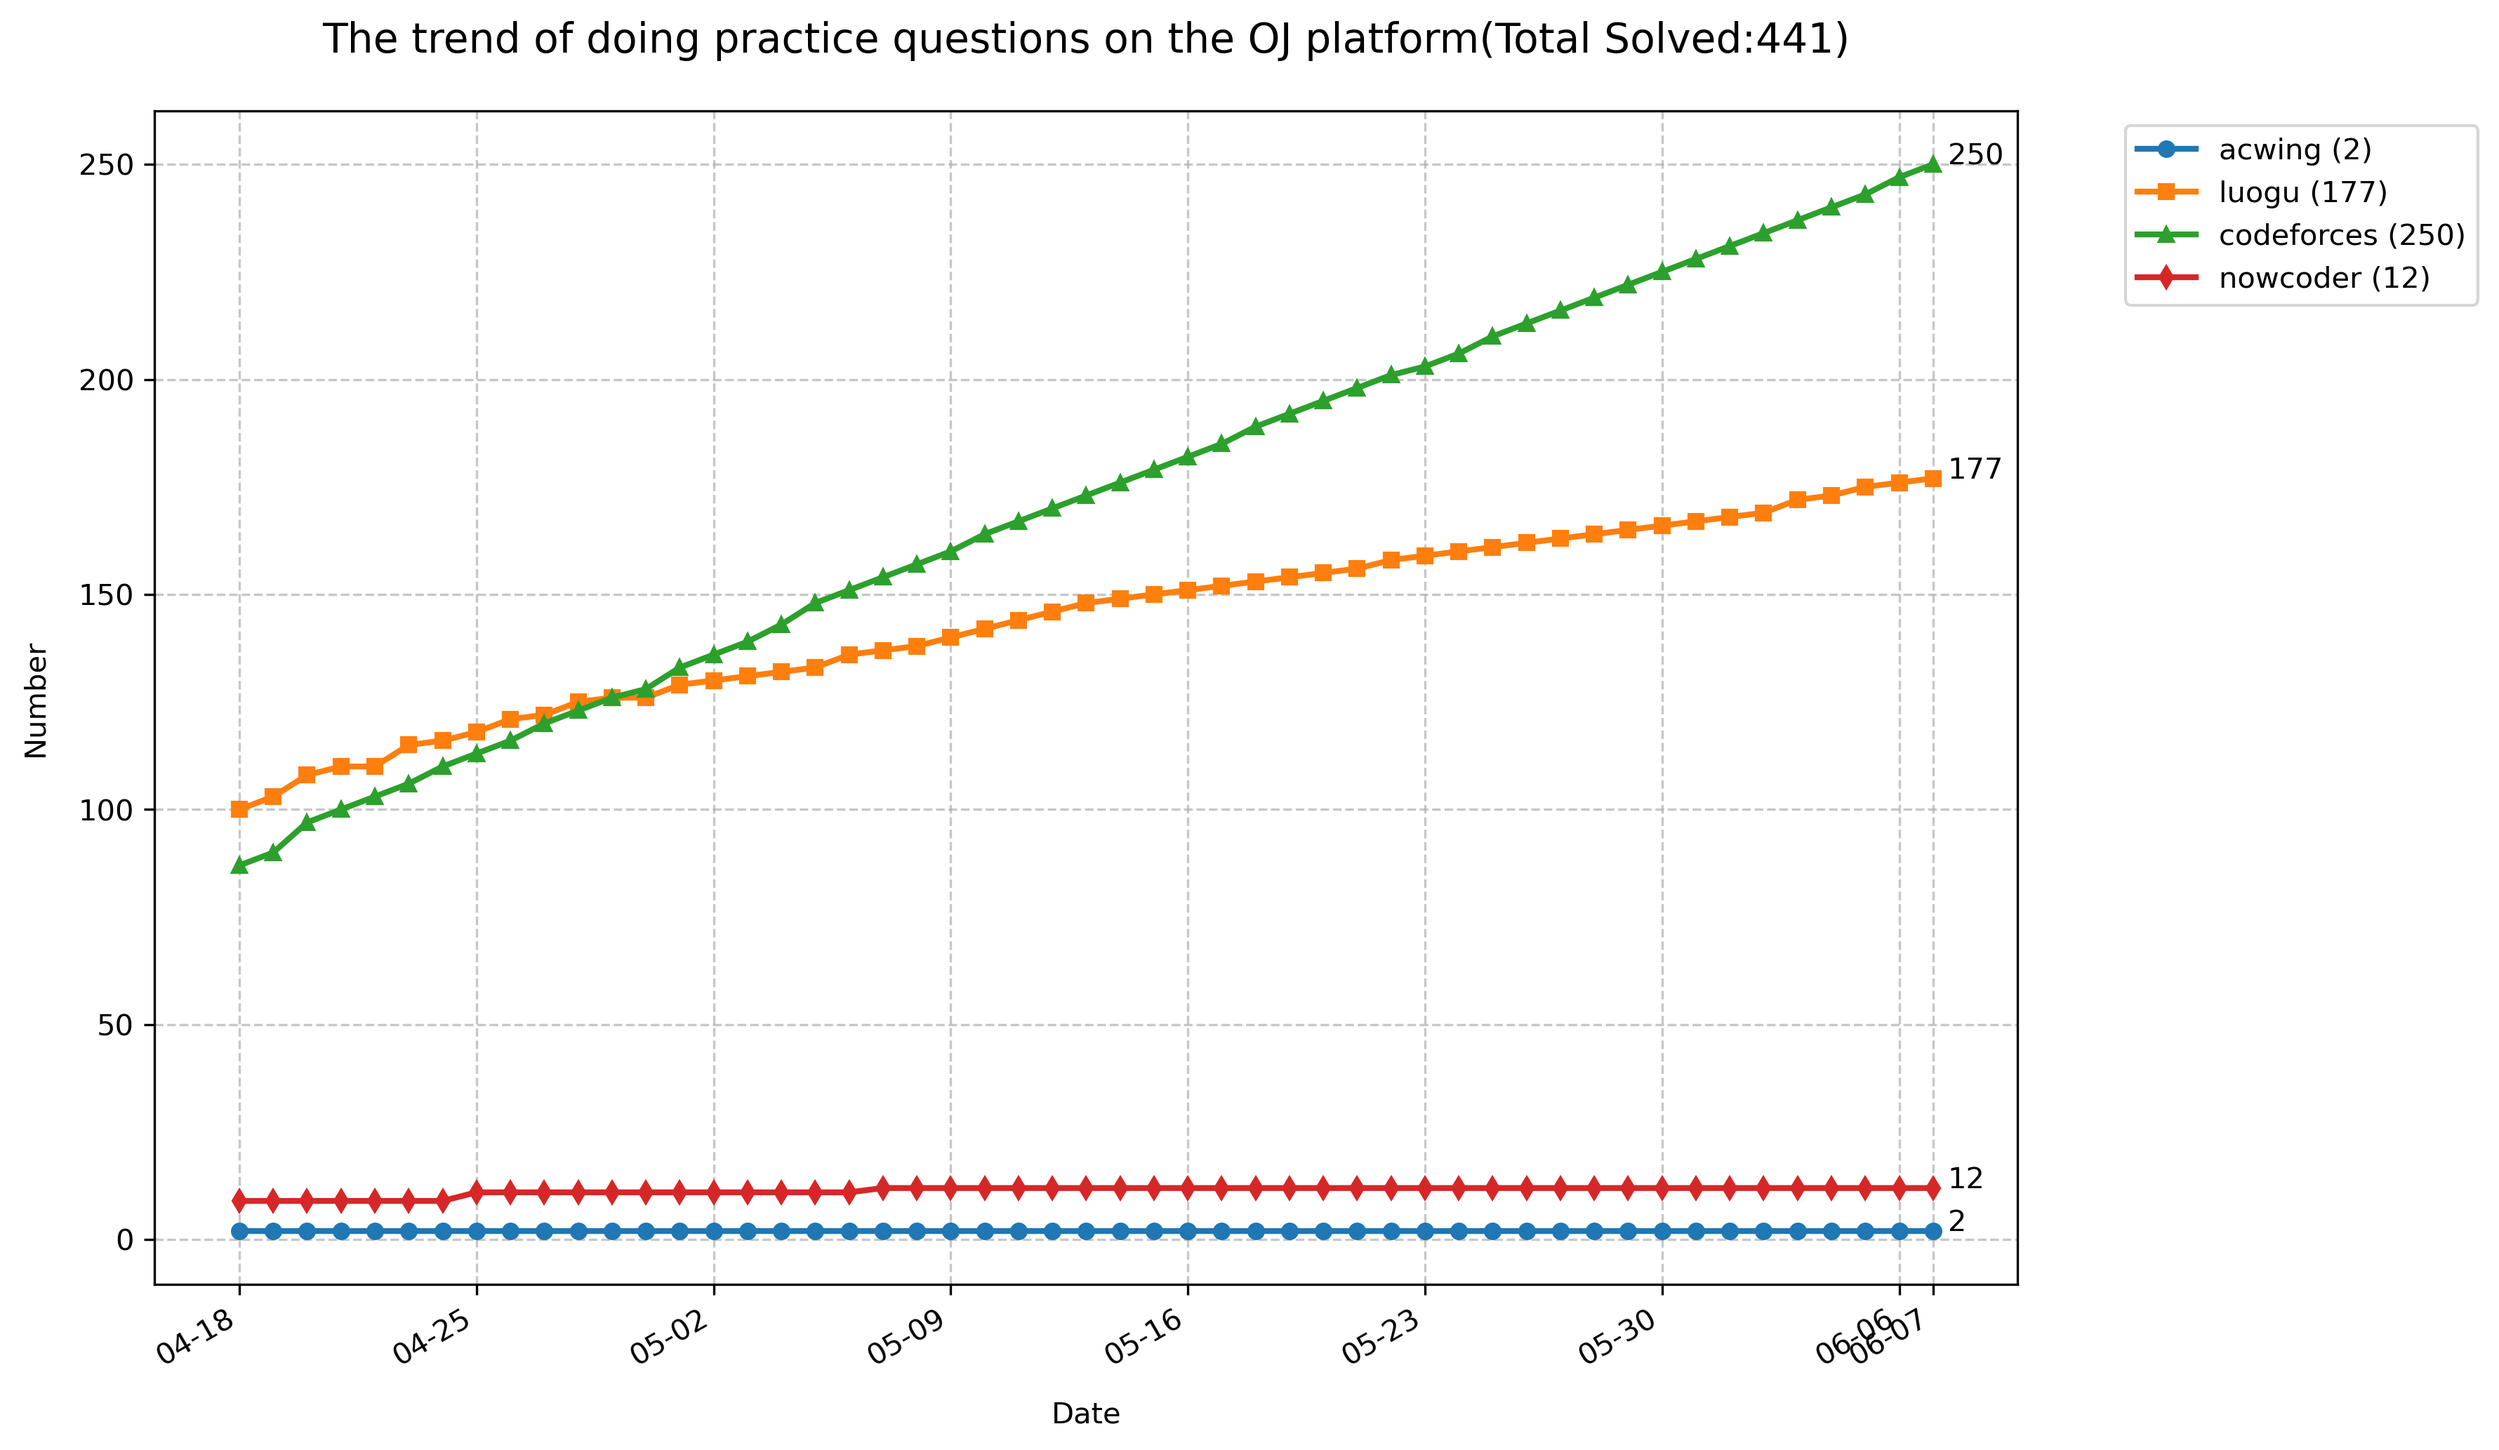
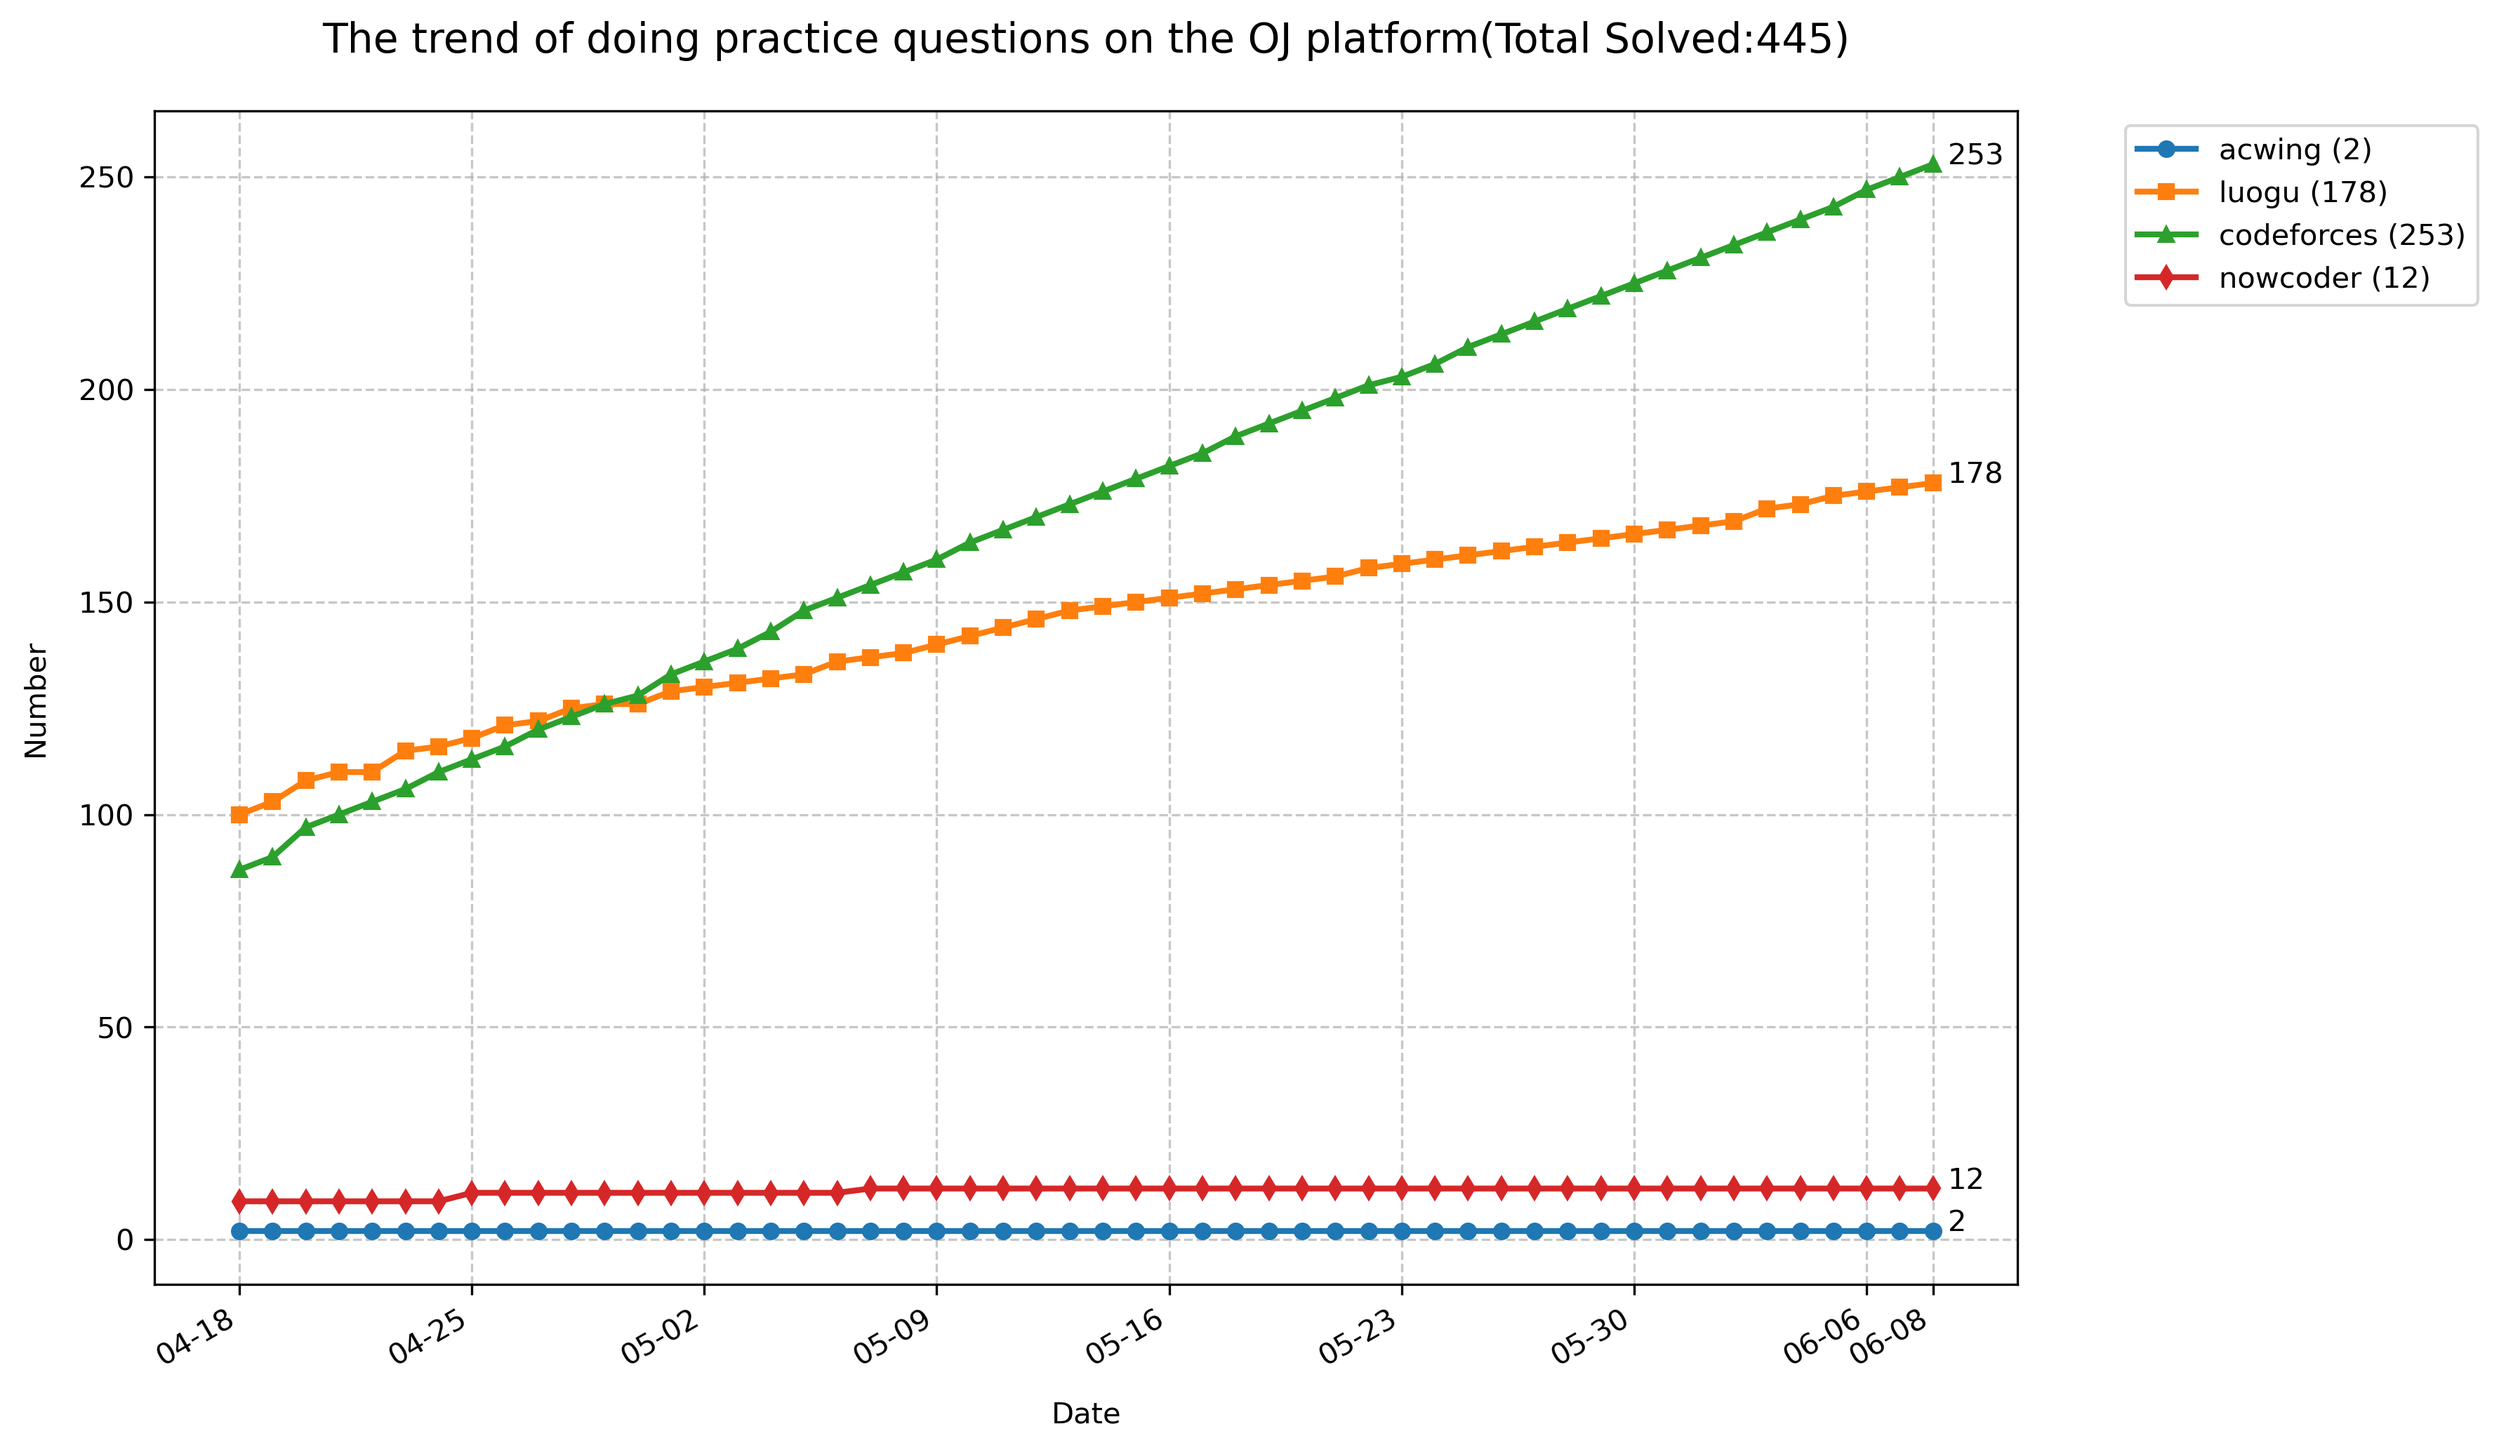
update

diff --git a/codeforces/327A/main.cpp b/codeforces/327A/main.cpp
@@ -1,0 +1,83 @@
+#include <bits/stdc++.h>
+using namespace std;
+
+#define ALL(x) (x).begin(), (x).end()
+#define MAXV(a, l, r) *std::max_element((a).begin() + (l), (a).begin() + (r))
+#define MINV(a, l, r) *std::min_element((a).begin() + (l), (a).begin() + (r))
+
+using ll = long long int;
+using ull = unsigned long long int;
+using PII = pair<int, int>;
+
+#define DEBUG
+#ifdef DEBUG
+template <typename Container>
+void PrintCon(const Container &cont)
+{
+    std::cout << "{ ";
+    if (!cont.empty())
+    {
+        auto it = cont.begin();
+        std::cout << "\033[33m" << *it++ << "\033[0m";
+        for (; it != cont.end(); ++it)
+            std::cout << " | " << "\033[33m" << *it << "\033[0m";
+    }
+    std::cout << " }" << std::endl;
+}
+
+template <typename... Args>
+void LOG(Args &&...values)
+{
+    ((std::cout << "\033[33m" << std::forward<Args>(values) << "\033[0m" << " "), ...);
+    std::cout << std::endl;
+}
+
+#else
+
+template <typename... Args>
+void LOG(Args &...args);
+template <typename Container>
+void PrintCon(const Container &cont);
+
+#endif
+
+int main()
+{
+    ios::sync_with_stdio(false);
+    cin.tie(nullptr);
+    int n;
+    cin >> n;
+    vector<int> a(n);
+    int cnt1 = 0;
+    for (int i = 0; i < n; i++)
+    {
+        cin >> a[i];
+        cnt1 += a[i];
+    }
+    int mx = -1;
+
+    for (int i = 0; i < n ; i++)
+    {
+        for (int j = i ; j < n; j++)
+        {
+
+            int cnt = cnt1;
+            int l = i;
+            while (l <= j)
+            {
+                if (a[l] == 0)
+                {
+                    cnt++;
+                }
+                else
+                {
+                    cnt--;
+                }
+                l++;
+            }
+            mx = max(mx, cnt);
+        }
+    }
+    cout << mx << endl;
+    return 0;
+}

diff --git a/codeforces/433B/main.cpp b/codeforces/433B/main.cpp
@@ -1,0 +1,82 @@
+#include <bits/stdc++.h>
+using namespace std;
+
+#define ALL(x) (x).begin(), (x).end()
+#define MAXV(a, l, r) *std::max_element((a).begin() + (l), (a).begin() + (r))
+#define MINV(a, l, r) *std::min_element((a).begin() + (l), (a).begin() + (r))
+
+using ll = long long int;
+using ull = unsigned long long int;
+using PII = pair<int, int>;
+
+#define DEBUG
+#ifdef DEBUG
+template <typename Container>
+void PrintCon(const Container &cont)
+{
+    std::cout << "{ ";
+    if (!cont.empty())
+    {
+        auto it = cont.begin();
+        std::cout << "\033[33m" << *it++ << "\033[0m";
+        for (; it != cont.end(); ++it)
+            std::cout << " | " << "\033[33m" << *it << "\033[0m";
+    }
+    std::cout << " }" << std::endl;
+}
+
+template <typename... Args>
+void LOG(Args &&...values)
+{
+    ((std::cout << "\033[33m" << std::forward<Args>(values) << "\033[0m" << " "), ...);
+    std::cout << std::endl;
+}
+
+#else
+
+template <typename... Args>
+void LOG(Args &...args);
+template <typename Container>
+void PrintCon(const Container &cont);
+
+#endif
+
+int main()
+{
+    ios::sync_with_stdio(false);
+    cin.tie(nullptr);
+    int n;
+    cin >> n;
+    vector<int> a(n + 1, 0);
+    vector<ll> s(n + 1, 0);
+    vector<ll> s2(n + 1, 0);
+    for (int i = 1; i <= n; i++)
+    {
+        cin >> a[i];
+        s[i] = s[i - 1] + a[i];
+    }
+    auto sort_a = a;
+    sort(ALL(sort_a));
+    for (int i = 1; i <= n; i++)
+    {
+        s2[i] = s2[i - 1] + sort_a[i];
+    }
+    int q;
+    cin >> q;
+    while (q--)
+    {
+        int op, l, r;
+        cin >> op >> l >> r;
+        if (op == 1)
+        {
+            cout << s[r] - s[l - 1];
+        }
+        else
+        {
+            cout << s2[r] - s2[l - 1];
+        }
+        cout << endl;
+    }
+
+    return 0;
+}

diff --git a/codeforces/1354C1/main.cpp b/codeforces/1354C1/main.cpp
@@ -1,0 +1,62 @@
+#include <bits/stdc++.h>
+using namespace std;
+
+#define ALL(x) (x).begin(), (x).end()
+#define MAXV(a, l, r) *std::max_element((a).begin() + (l), (a).begin() + (r))
+#define MINV(a, l, r) *std::min_element((a).begin() + (l), (a).begin() + (r))
+
+using ll = long long int;
+using ull = unsigned long long int;
+using PII = pair<int, int>;
+
+#define DEBUG
+
+#ifdef DEBUG
+template <typename Container>
+void PrintCon(const Container &cont)
+{
+    std::cout << "{ ";
+    if (!cont.empty())
+    {
+        auto it = cont.begin();
+        std::cout << "\033[33m" << *it++ << "\033[0m";
+        for (; it != cont.end(); ++it)
+            std::cout << " | " << "\033[33m" << *it << "\033[0m";
+    }
+    std::cout << " }" << std::endl;
+}
+
+template <typename... Args>
+void LOG(Args &&...values)
+{
+    ((std::cout << "\033[33m" << std::forward<Args>(values) << "\033[0m" << " "), ...);
+    std::cout << std::endl;
+}
+#else
+template <typename... Args>
+void LOG(Args &...args);
+
+template <typename Container>
+void PrintCon(const Container &cont);
+#endif
+
+void solve()
+{
+    double n;
+    cin >> n;
+    cout << fixed << setprecision(9) << 1.0 / tan(M_PI / 2 / n) << endl;
+}
+
+int main()
+{
+    ios::sync_with_stdio(false);
+    cin.tie(nullptr);
+    int t;
+    cin >> t;
+    while (t--)
+    {
+        solve();
+    }
+
+    return 0;
+}

diff --git a/luogu/B3834/main.cpp b/luogu/B3834/main.cpp
@@ -1,0 +1,62 @@
+#include <bits/stdc++.h>
+using namespace std;
+
+
+
+#define ALL(x) (x).begin(), (x).end()
+#define MAXV(a, l, r) *std::max_element((a).begin() + (l), (a).begin() + (r))
+#define MINV(a, l, r) *std::min_element((a).begin() + (l), (a).begin() + (r))
+
+
+
+using ll = long long int;
+using ull = unsigned long long int;
+using PII = pair<int,int>;
+
+#define DEBUG
+#ifdef DEBUG
+template<typename Container>
+void PrintCon(const Container& cont) {
+    std::cout << "{ ";
+    if (!cont.empty()) {
+        auto it = cont.begin();
+        std::cout <<"\033[33m"<< *it++<< "\033[0m";
+        for (; it != cont.end(); ++it)
+            std::cout << " | " <<"\033[33m"<< *it<< "\033[0m";
+    }
+    std::cout << " }" << std::endl;
+}
+
+template<typename... Args>
+void LOG(Args&&... values) {
+    ((std::cout <<"\033[33m"<< std::forward<Args>(values) << "\033[0m"<< " "), ...);
+    std::cout << std::endl;
+}
+
+#else
+
+template<typename ...Args>
+void LOG(Args& ...args);
+template<typename Container>
+void PrintCon(const Container& cont);
+
+#endif
+
+
+int main(){
+    ios::sync_with_stdio(false);
+    cin.tie(nullptr);
+    int n;
+    cin>>n;
+    int cnt = 0;
+    for(int i = 1;i<=n/i;i++){
+        if(n%i==0)
+        {
+            cnt++;
+        }
+    }
+    cout<<cnt<<endl;
+    
+
+    return 0;
+}
